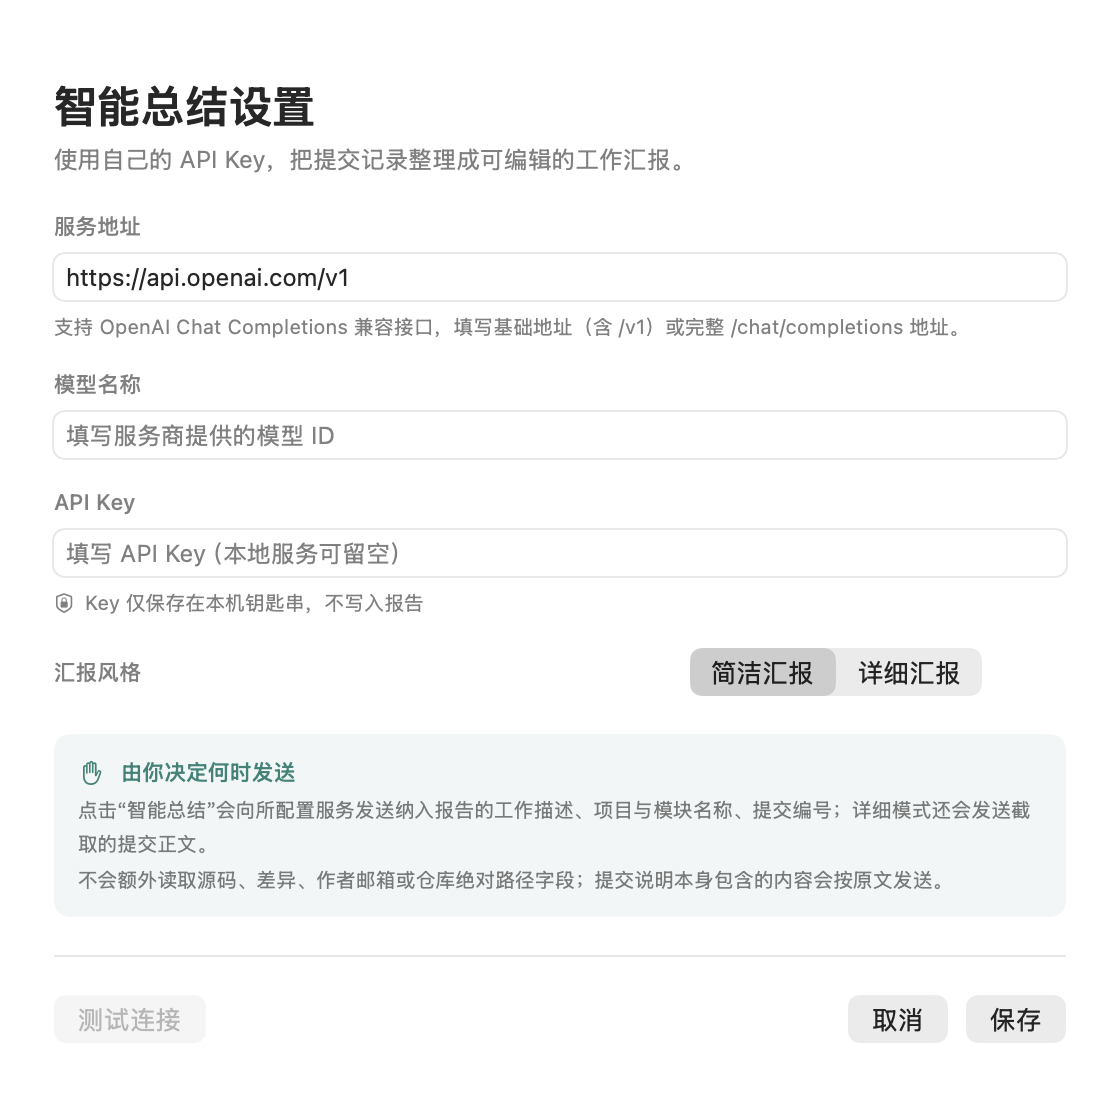
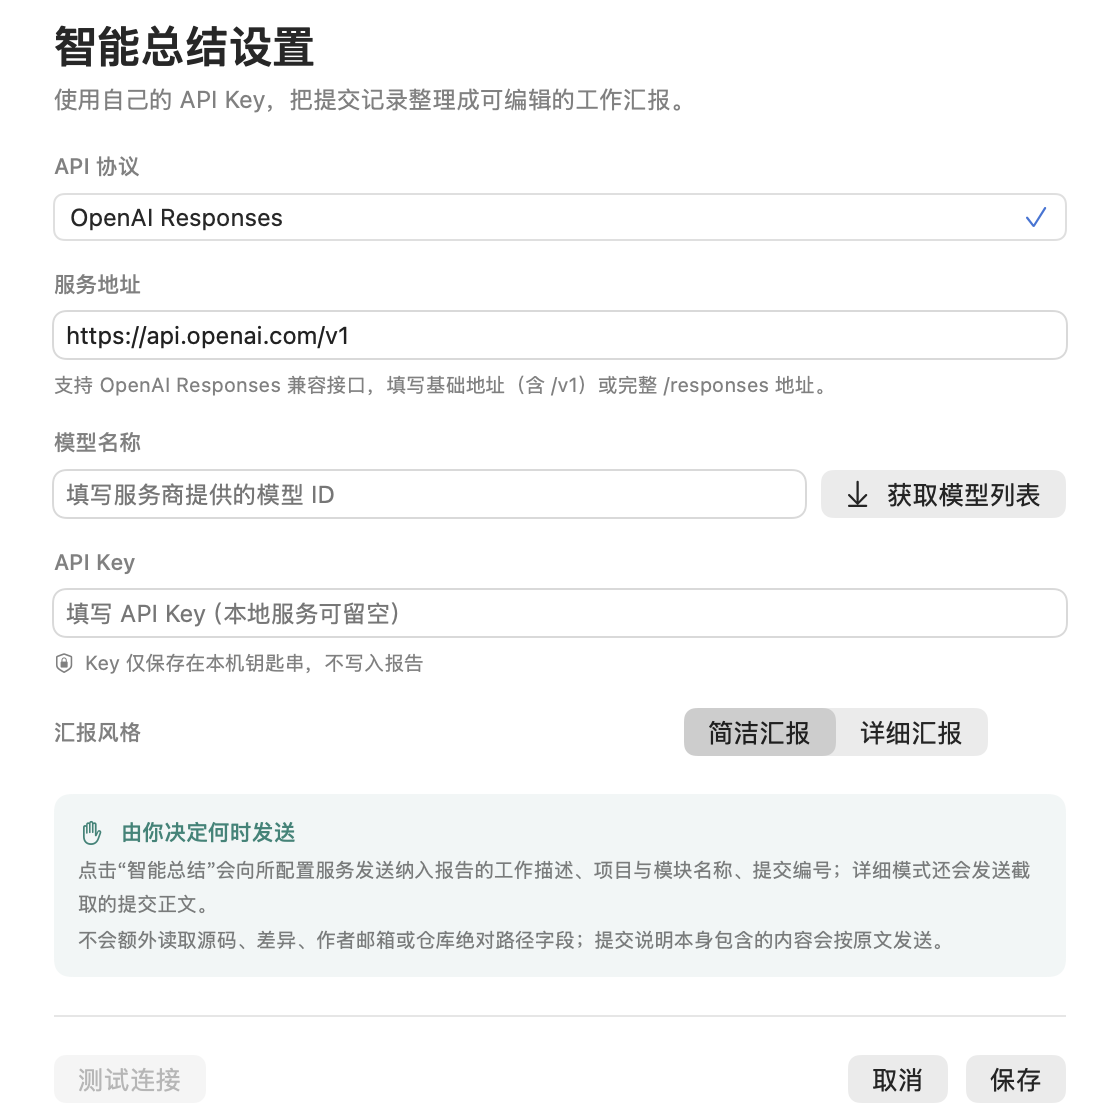
docs(release): publish CommitBrief 0.3.0

diff --git a/CHANGELOG.md b/CHANGELOG.md
@@ -1,5 +1,32 @@
 # 更新日志
 
+## 0.3.0 · 2026-09-15
+
+### 报告输出与历史
+
+- 报告支持导出 Markdown `.md` 与文本文件 `.txt`。
+- 保存最近 90 天由手动整理或智能总结生成的报告版本。
+- 历史页支持关键词、时间、周期与来源筛选，以及预览、恢复、删除和再次导出。
+
+### 通知与更新
+
+- 可选 macOS 系统通知与 Webhook，在手动更新报告或智能总结成功后推送更新摘要。
+- Webhook 地址存入 macOS 钥匙串，只发送标题、日期范围与统计数量，不发送报告正文。
+- 侧栏增加手动检查更新与 GitHub 项目入口；检查结果跳转到应用内固定的可信下载地址。
+
+### 大模型协议
+
+- 智能总结切换到 OpenAI Responses 兼容接口，使用 `POST /responses` 和 `output_text`。
+- 请求显式关闭流式输出与服务端存储：`stream: false`、`store: false`。
+- 模型设置支持通过兼容的 `GET /models` 接口读取模型列表，同时保留手动填写模型 ID。
+- 旧的完整 `/chat/completions` 地址会自动转换为 `/responses`。
+
+### 安全与可靠性
+
+- 模型、Webhook 与更新检查网络请求使用临时会话，不保留 Cookie 或响应缓存，并拒绝重定向。
+- 更新检查处理 GitHub 限流、网络、超时和无效版本响应，不显示远端响应正文。
+- 0.3.0 发布前自动化测试共 66 项，2 项可选渲染测试另行启用，测试结果为 0 失败。
+
 ## 0.2.0 · 2026-09-05
 
 CommitBrief 首个公开分发版本，提供 macOS 15 及以上、Apple Silicon Mac 的 DMG 安装包。

diff --git a/docs/NOTIFICATIONS.md b/docs/NOTIFICATIONS.md
@@ -1,0 +1,27 @@
+# 报告更新通知
+
+CommitBrief 0.3.0 可在手动更新报告或智能总结成功后发送更新通知。侧栏“推送设置”可分别启用 macOS 系统通知和 Webhook。
+
+筛选项目、作者或周期，编辑草稿，以及应用启动时的自动整理都不会推送。系统通知首次启用时会请求 macOS 权限。
+
+## Webhook
+
+远程地址必须使用 HTTPS；`localhost`、`127.0.0.1` 和 `::1` 可使用 HTTP。应用拒绝重定向，请直接填写最终地址。Webhook 地址可能包含凭证，因此单独保存在本机钥匙串。
+
+应用发送 `POST` JSON，接收端返回任意 `2xx` 状态即视为成功：
+
+```json
+{
+  "event": "report.updated",
+  "title": "工作周报",
+  "period": "week",
+  "dateRange": "2026.09.09 — 2026.09.15",
+  "projects": 2,
+  "modules": 4,
+  "workItems": 8,
+  "commits": 12,
+  "updatedAt": "2026-09-15T10:00:00Z"
+}
+```
+
+Webhook 不包含报告正文、提交文本、仓库路径或 API Key。飞书、钉钉等要求固定消息结构的机器人地址不能直接使用，需要通过自己的转换 Webhook 接收以上 JSON 后转发。
